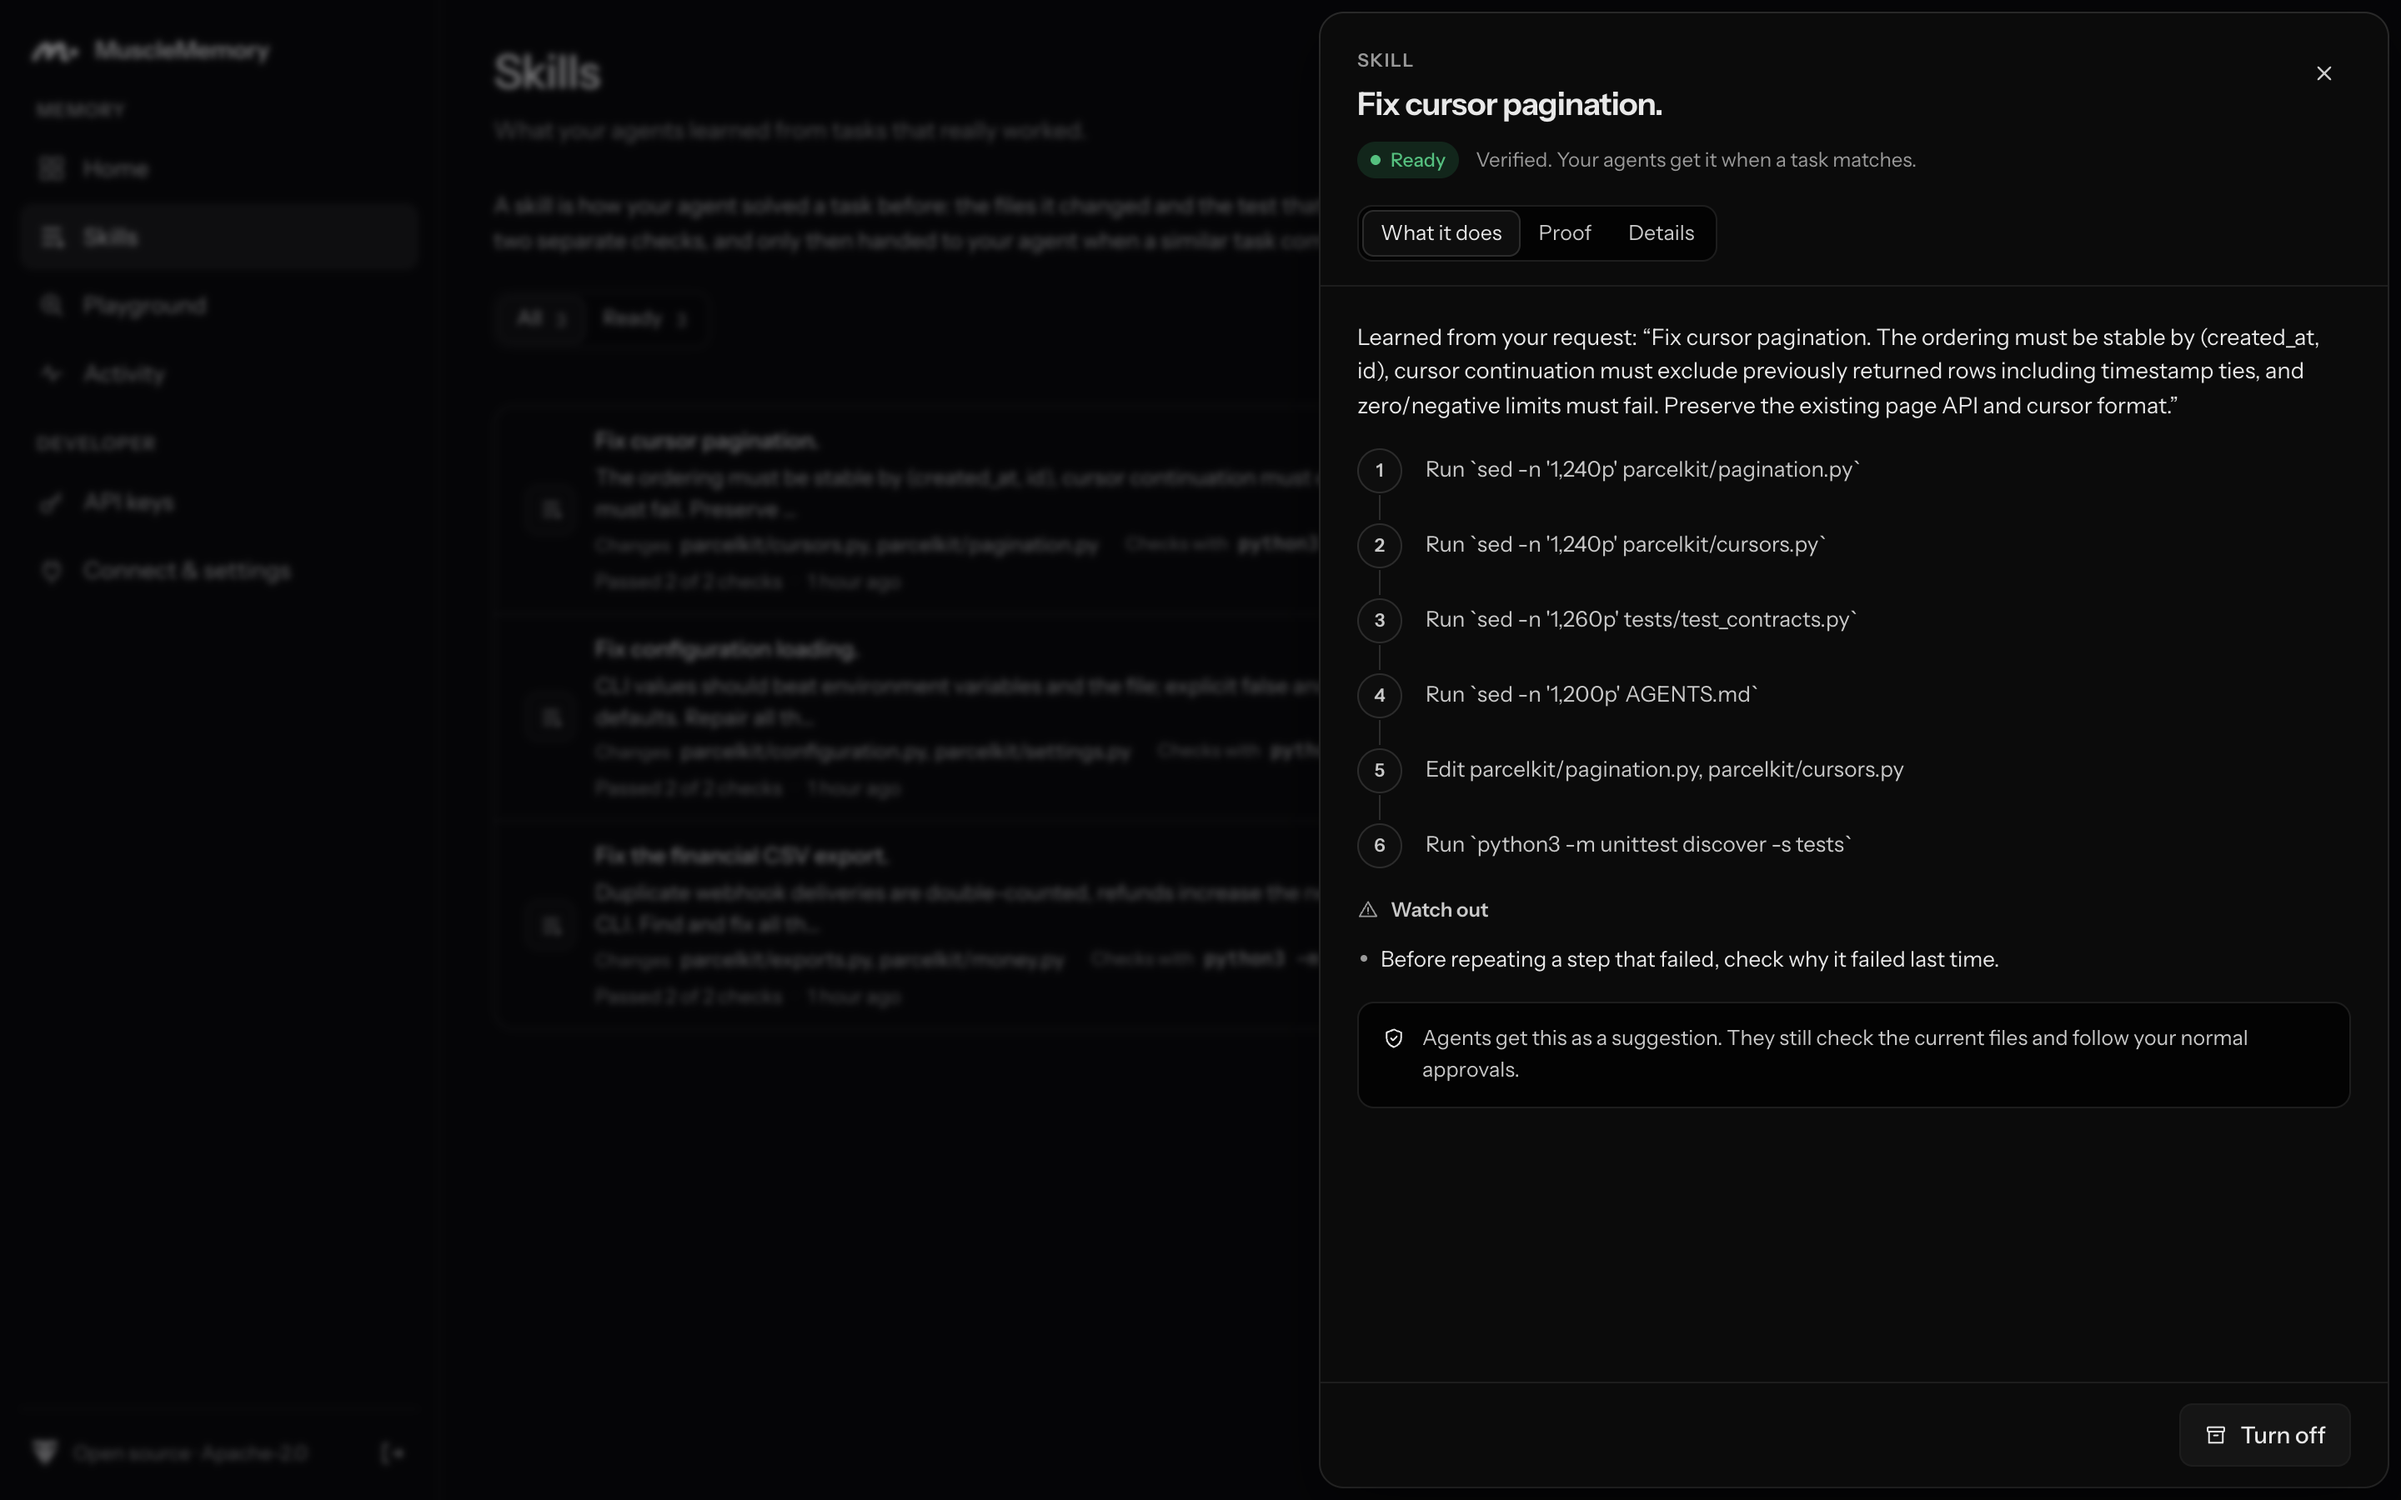
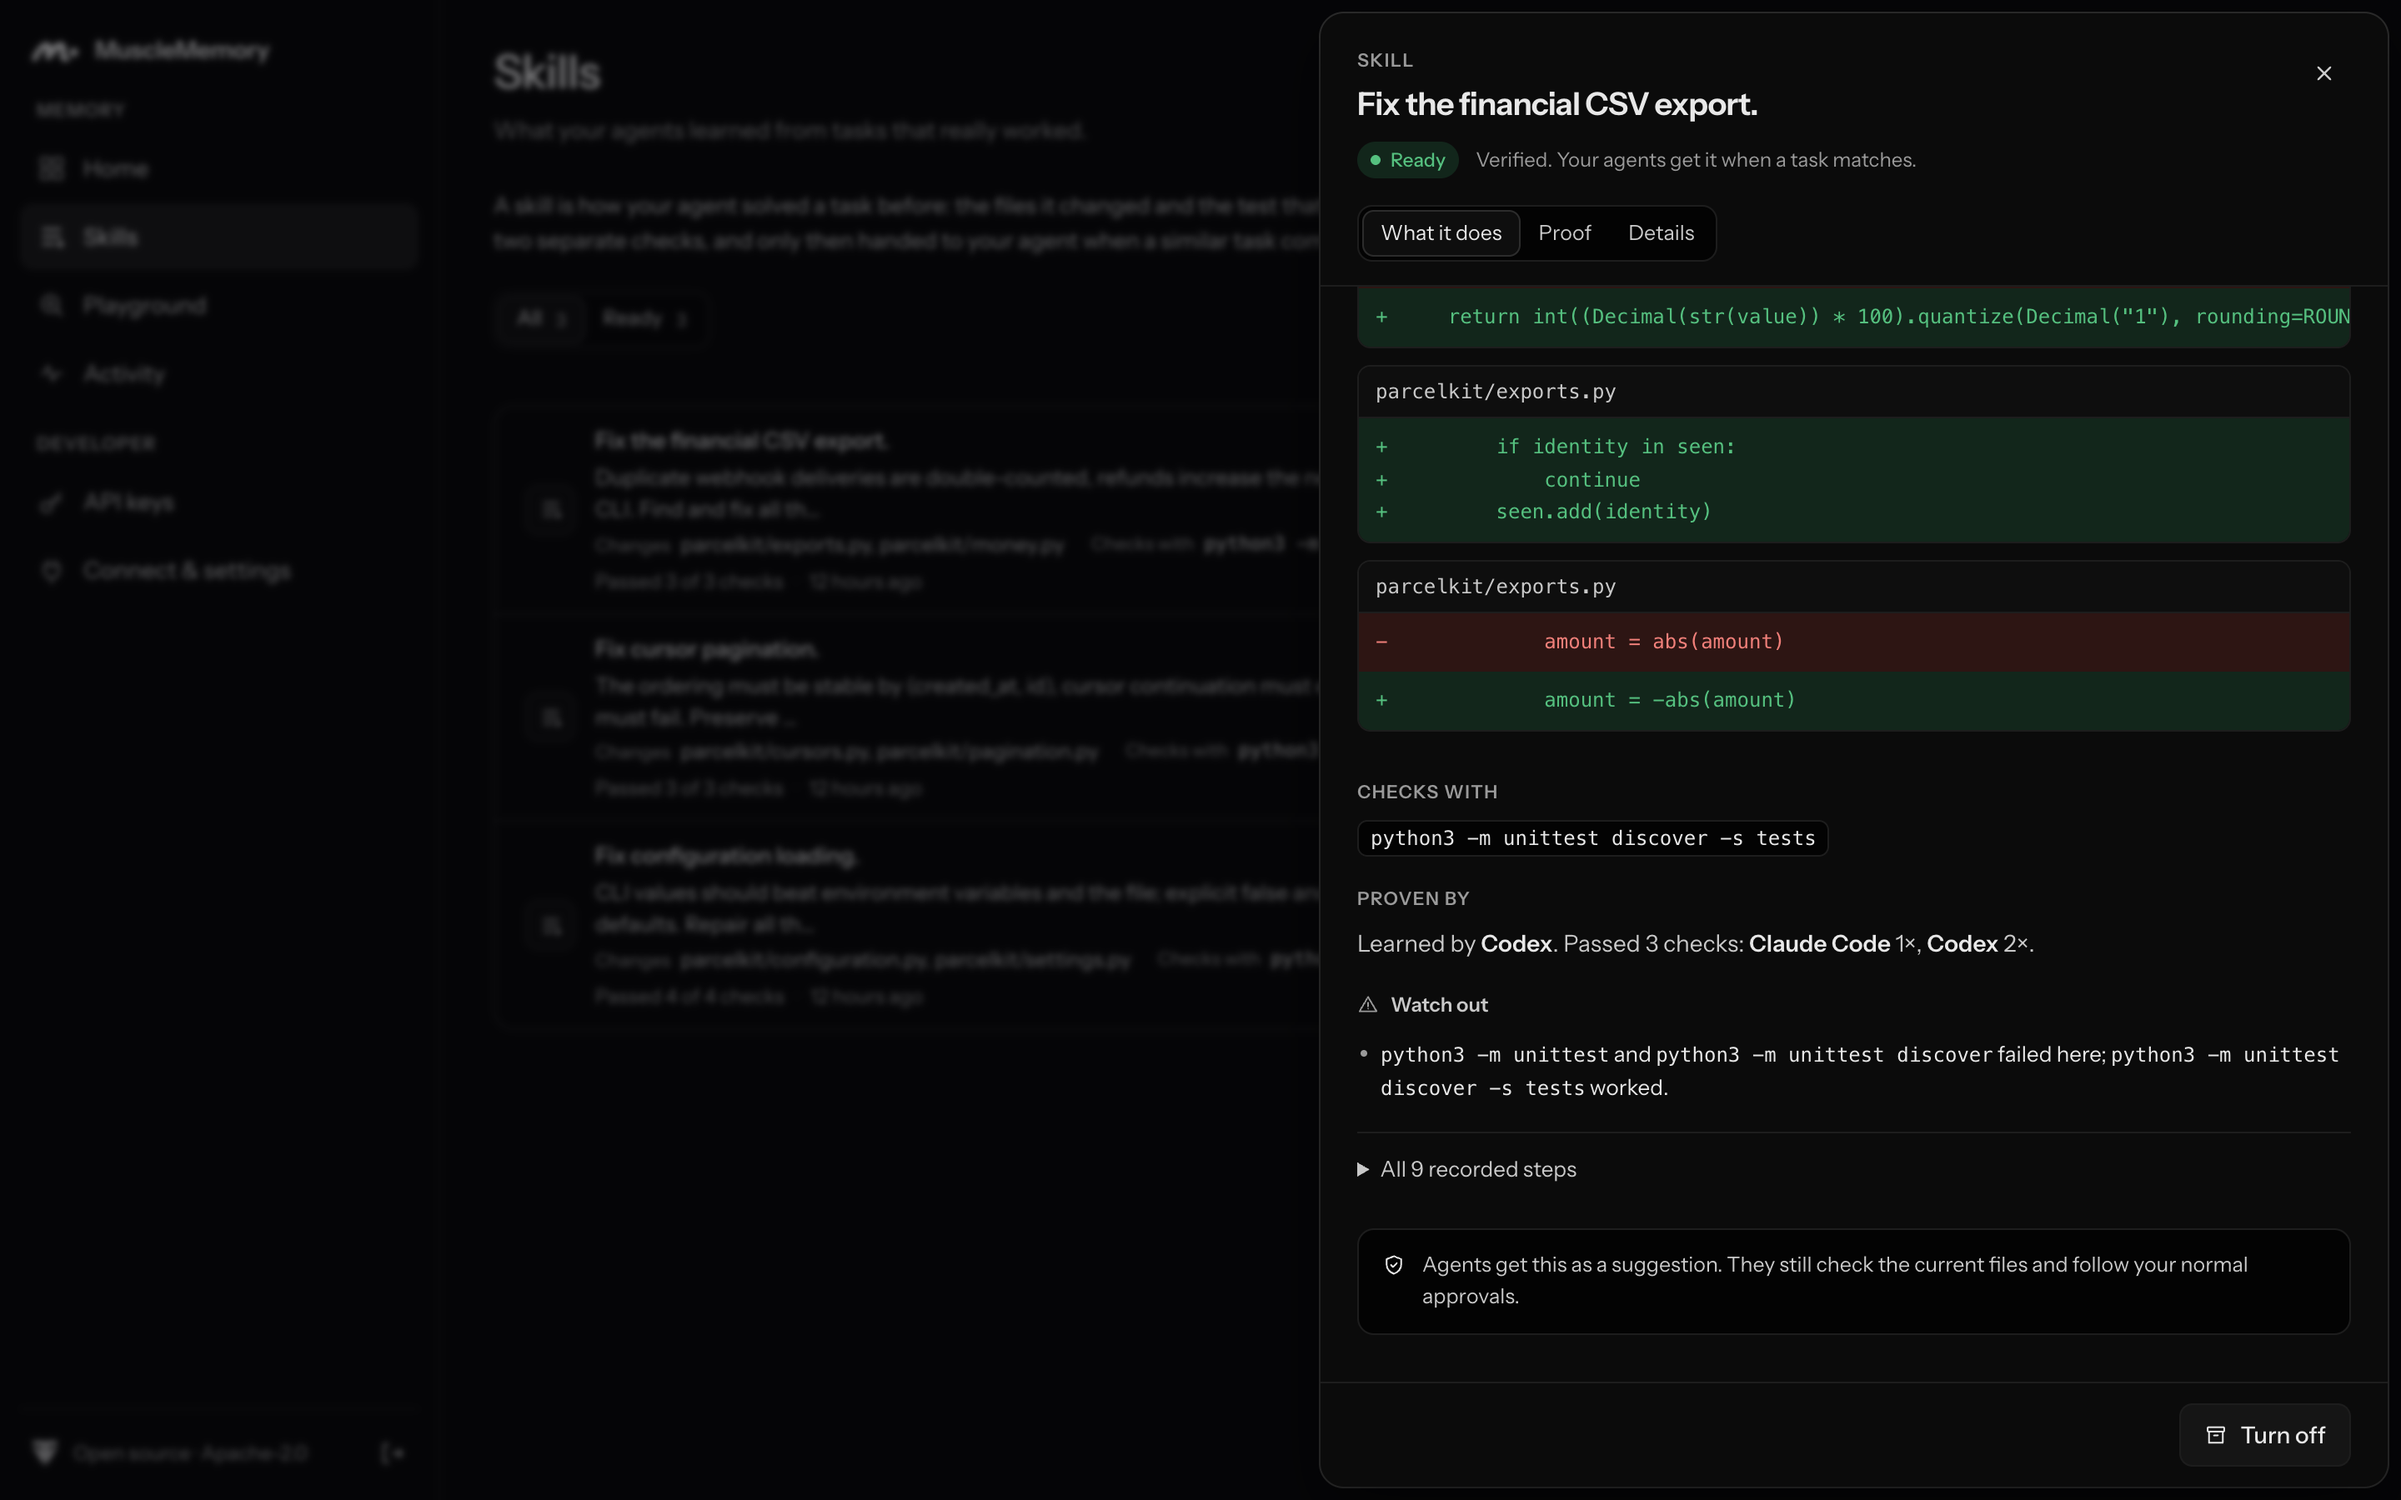
fix(dashboard): show commands in notes as code; drop old-note wording
Watch-out notes name commands in backticks; the skill page and the
Playground now show them as code. Stored notes have been rewritten in
the new form, so the layer that reworded old-style notes is removed.
README screenshots show the current skill page and Playground.

diff --git a/apps/dashboard/src/plain.ts b/apps/dashboard/src/plain.ts
@@ -69,22 +69,6 @@ export function shortTitle(title?: string) {
   return first.length > 110 ? `${first.slice(0, 107)}…` : first;
 }
 
-// Skills learned before notes were written in plain English still carry the old wording.
-const legacyNotes: Array<[RegExp, string]> = [
-  [/^Avoid repeating (\S+) without checking its argument shape\.$/, 'Before repeating a step that failed, check why it failed last time.'],
-  [/^Earlier attempt failed: .*$/, 'An earlier attempt failed at one of these steps.'],
-  [/^\S+ has (write|destructive) effects; native approval applies\.$/, 'Some steps change files or run commands; your agent still asks first.'],
-  [/^An exploratory action was abandoned: .*$/, 'A detour was dropped because it didn’t help.'],
-  [/^A successful recovery retried .*$/, 'A step failed once and worked when retried.'],
-  [/^Successful contrast contains an additional shape for .*$/, 'The run that worked did an extra step that a failed run skipped.'],
-  [/^Failed contrast used a different action shape for .*$/, 'A failed run did a step differently from the run that worked.'],
-  [/^Argument shape differs between outcomes for .*$/, 'A failed run used a step differently from the run that worked.'],
-];
-export function plainNote(note: string) {
-  for (const [pattern, text] of legacyNotes) if (pattern.test(note)) return text;
-  return note;
-}
-
 /** "Passed 2 of 2 checks", "Needs 1 more check": where a skill stands, in words. */
 export function checksLine(successes = 0, failures = 0, status = '') {
   if (status === 'flagged') return `Failed ${failures} of ${successes + failures} checks`;

diff --git a/apps/dashboard/src/views/Playground.tsx b/apps/dashboard/src/views/Playground.tsx
@@ -1,9 +1,9 @@
 import React, {useEffect, useMemo, useRef, useState} from 'react';
 import type {RecallResult, RunSummary} from '../api';
 import {ProviderLogo, providerOf} from '../logos';
-import {plainNote, shortTitle} from '../plain';
+import {shortTitle} from '../plain';
 import {useSkillDetails} from '../skillData';
-import {Empty, Icon, Logo} from '../ui';
+import {Empty, Icon, Logo, NoteText} from '../ui';
 import {useWorkspace} from '../workspace';
 
 type Turn = {id: number; task: string; result?: RecallResult; error?: string};
@@ -110,7 +110,7 @@ function Answer({task, result, onOpen, titles}: {task: string; result: RecallRes
       {pointer.changed_files?.length ? <li><span>Files to change</span>{pointer.changed_files.join(', ')}</li> : null}
       {pointer.requires_files?.length ? <li><span>Read first</span>{pointer.requires_files.join(', ')}</li> : null}
       {pointer.verify?.length ? <li><span>Check it with</span><code>{pointer.verify.join(' && ')}</code></li> : null}
-      {pointer.avoid?.length ? <li><span>Watch out</span>{[...new Set(pointer.avoid.map(plainNote))].join(' ')}</li> : null}
+      {pointer.avoid?.length ? <li><span>Watch out</span><div>{[...new Set(pointer.avoid)].map(note => <p key={note}><NoteText text={note}/></p>)}</div></li> : null}
     </ul>
     <button type="button" className="link-button" aria-expanded={exact} onClick={() => setExact(!exact)}>{exact ? 'Hide' : 'Show'} the exact prompt your agent would get</button>
     {exact && <pre className="prompt-preview">{`${task}\n\n${result.guidance ?? ''}`}</pre>}

diff --git a/apps/dashboard/src/views/Skills.tsx b/apps/dashboard/src/views/Skills.tsx
@@ -1,7 +1,7 @@
 import React, {useEffect, useMemo, useState} from 'react';
 import type {ProcedureDetail, ProcedureSummary, SkillSummary} from '../api';
-import {agentName, checksLine, describeStep, plainNote, requestDetails, shortCommand, shortTitle, skillStatus} from '../plain';
-import {Badge, CodeBlock, Empty, formatDuration, Icon, relativeTime, SearchField, Segmented, Sheet, Skeleton, useFeedback} from '../ui';
+import {agentName, checksLine, describeStep, requestDetails, shortCommand, shortTitle, skillStatus} from '../plain';
+import {Badge, CodeBlock, Empty, formatDuration, Icon, NoteText, relativeTime, SearchField, Segmented, Sheet, Skeleton, useFeedback} from '../ui';
 import {ProviderLogo} from '../logos';
 import {useWorkspace} from '../workspace';
 
@@ -224,6 +224,6 @@ function Summary({summary, successes}: {summary: SkillSummary; successes: number
 }
 
 function Notes({title, items, icon}: {title: string; items: string[]; icon: 'alert' | 'refresh'}) {
-  const notes = [...new Set(items.map(plainNote))];
-  return <section className="sub"><h3><Icon name={icon} size={13}/>{title}</h3><ul className="bullets">{notes.map(i => <li key={i}>{i}</li>)}</ul></section>;
+  const notes = [...new Set(items)];
+  return <section className="sub"><h3><Icon name={icon} size={13}/>{title}</h3><ul className="bullets">{notes.map(i => <li key={i}><NoteText text={i}/></li>)}</ul></section>;
 }

diff --git a/apps/dashboard/src/ui.tsx b/apps/dashboard/src/ui.tsx
@@ -266,3 +266,8 @@ export class ErrorBoundary extends React.Component<{children: React.ReactNode; r
     </div>;
   }
 }
+
+/** A note with `commands` in backticks shown as code. */
+export function NoteText({text}: {text: string}) {
+  return <>{text.split(/(`[^`]+`)/).map((part, i) => /^`[^`]+`$/.test(part) ? <code key={i}>{part.slice(1, -1)}</code> : part)}</>;
+}
